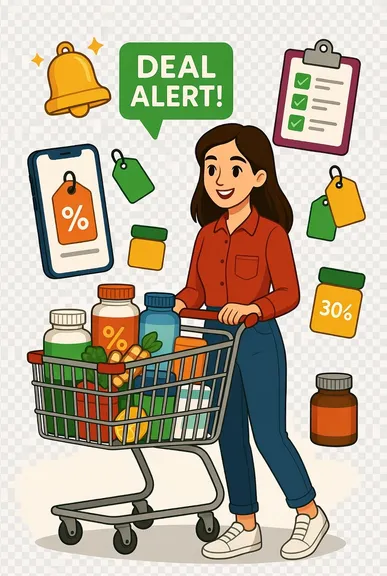
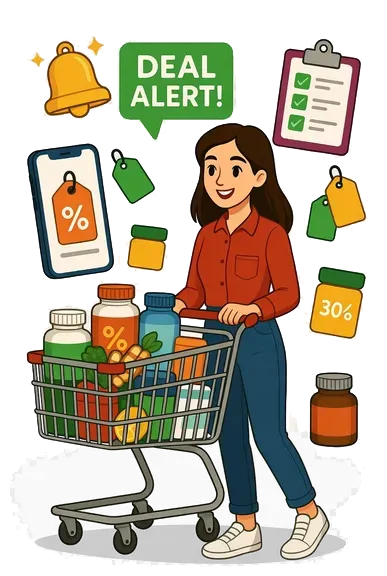
fix(frontend): transparent auth illustration on a light panel in dark mode, lazy-loaded

Changed region(s): [[0.0, 0.0, 1.0, 1.0], [0.4651, 0.5312, 0.4961, 0.5625]]

diff --git a/frontend/src/features/auth/components/AuthBenefits.tsx b/frontend/src/features/auth/components/AuthBenefits.tsx
@@ -33,10 +33,18 @@ const benefits: Benefit[] = [
 export default function AuthBenefits() {
   return (
     <div className="w-full max-w-md p-4 sm:p-6">
+      {/* Transparent WebP (background removed), 2x the displayed size for sharp retina screens.
+          lazy: hidden below lg, and browsers skip hidden lazy images, so phones don't download it.
+          width/height + fixed h-72 reserve the space, so the list below doesn't jump when it loads.
+          Dark mode adds a light panel behind it (tokens in index.css); light mode has none */}
       <img
         src={authIllustration}
         alt=""
-        className="mx-auto mb-6 hidden max-h-72 w-auto object-contain lg:block"
+        width={387}
+        height={576}
+        loading="lazy"
+        decoding="async"
+        className="bg-illustration-panel mx-auto mb-6 hidden h-72 w-auto rounded-xl p-(--illustration-panel-padding) lg:block"
       />
       <ul className="space-y-4">
         {benefits.map(({ icon: Icon, title, description, badge }) => (

diff --git a/frontend/src/index.css b/frontend/src/index.css
@@ -47,6 +47,10 @@
   --info: #1569b4;
   --warning: #965900;
   --danger: #c22929;
+
+  /* The auth illustration is drawn for a light page: no panel needed here */
+  --illustration-panel: transparent;
+  --illustration-panel-padding: 0px;
 }
 
 .dark {
@@ -68,6 +72,11 @@
   --info: #64b5f6;
   --warning: #ffb74d;
   --danger: #f47472;
+
+  /* Dark mode puts the illustration on the light surface it was drawn for: its black
+     outlines vanish on a dark page, and its cream floor tones only blend into light */
+  --illustration-panel: #f1f3f1;
+  --illustration-panel-padding: 1rem;
 }
 
 /* Until ThemeContext sets data-theme, the saved theme is unknown: let the browser canvas follow
@@ -93,6 +102,7 @@
   --color-info: var(--info);
   --color-warning: var(--warning);
   --color-danger: var(--danger);
+  --color-illustration-panel: var(--illustration-panel);
 }
 
 /* Tailwind v4 gives buttons the default cursor; restore the pointer for every clickable
